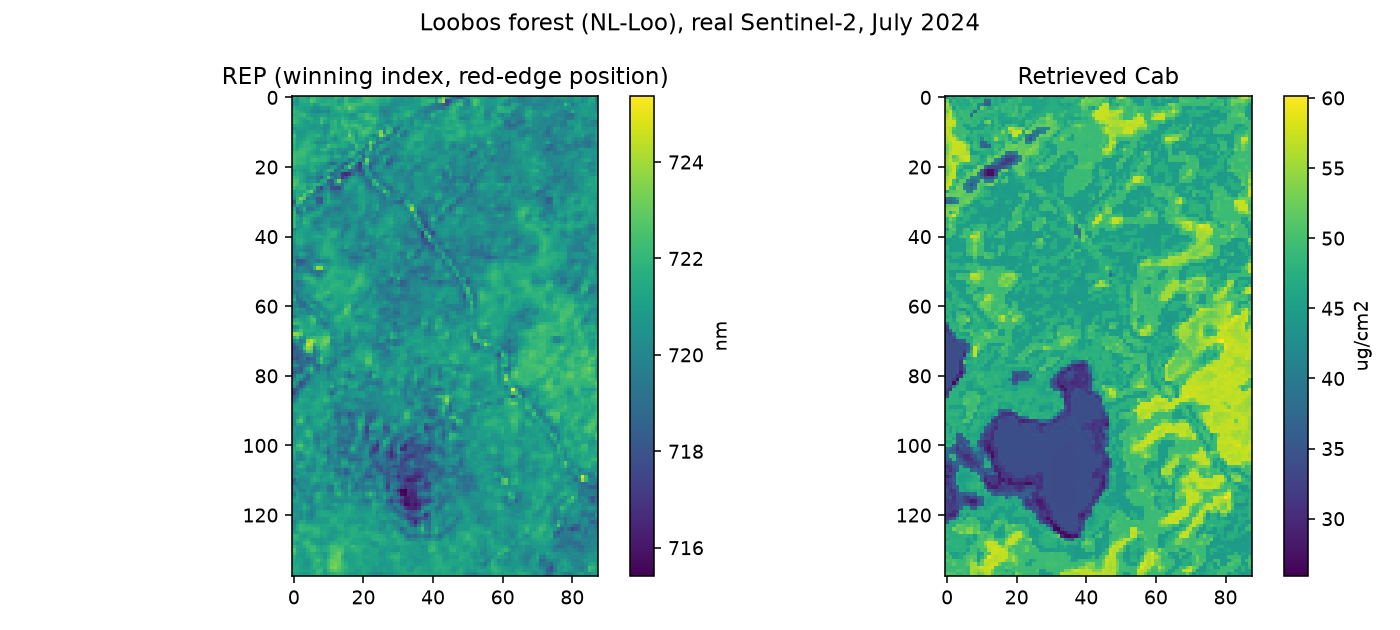
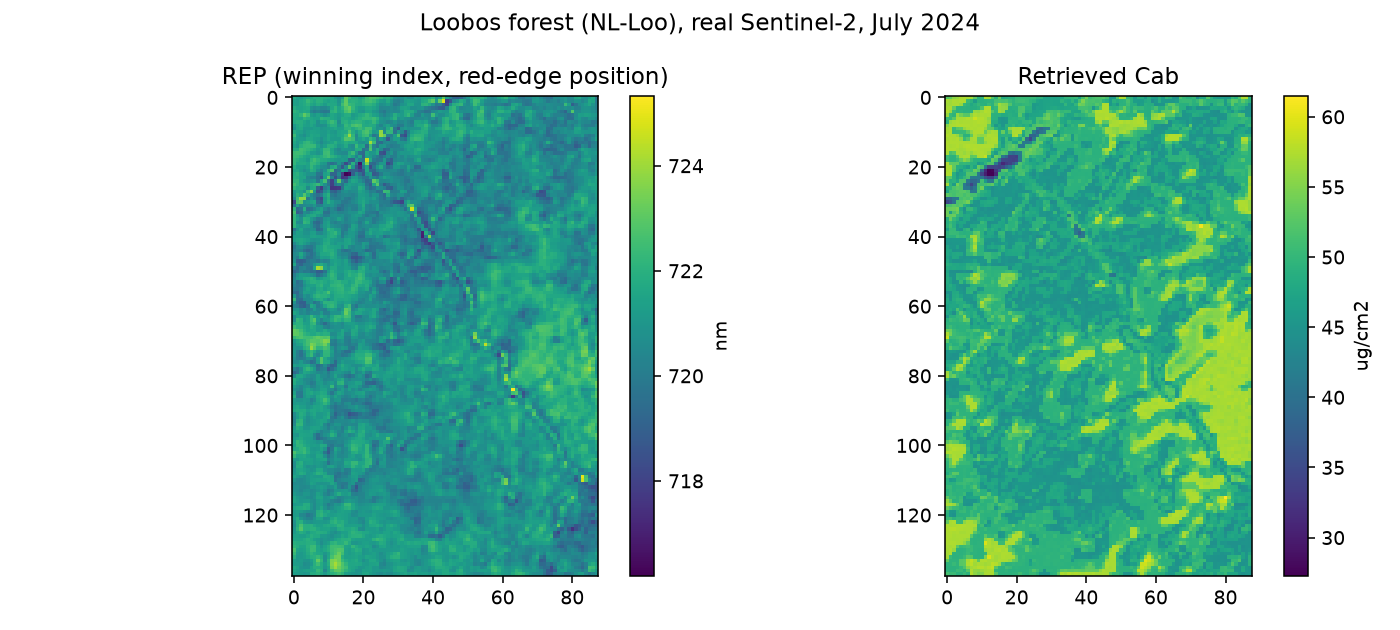
Fix t18 tutorial: cloud-contaminated pixel was not a real forest gap
The Result/Interpretation prose claimed a dark patch shared by the REP
index and the ML-retrieved Cab map was "the exact same forest gap" and
"evidence of a genuine vegetation signal". Real bug: the July composite
only had 3 usable dates, and the 2024-07-28 scene has a real cloud
sitting directly over that exact spot -- despite having the LOWEST
whole-scene cloud cover of the three (14% vs 20.5%/28%), since a
tile-wide percentage says nothing about a small bbox. The RF Cab model,
trained only on clean simulated spectra, turned the contaminated
composite pixel into a confident-looking but meaningless low value --
precisely the "Common mistakes" pitfall this same page already warns
about, just not caught in its own headline figure.

Figure/generator script already fixed and regenerated (excludes the
cloudy scene explicitly, kept as the two genuinely clean dates).
Rewrote Interpretation honestly: recounts the real bug as the more
useful lesson a clean figure wouldn't have taught, and describes what's
left in the corrected figure with appropriate hedging (a small
low-REP/low-Cab patch near a visible unpaved track junction, consistent
across both clean dates and plausibly real, but not something a figure
like this can fully distinguish from residual haze) instead of
overclaiming certainty the data doesn't support.

diff --git a/docs/python/t18-applying-inversion-spatially.html b/docs/python/t18-applying-inversion-spatially.html
@@ -193,22 +193,43 @@ handling invalid pixels correctly.</p>
 <a class="reference internal image-reference" href="_images/t18_python_capstone.png"><img alt="Retrieved Cab map alongside an independent spectral index (REP), same real Loobos Sentinel-2 scene" src="_images/t18_python_capstone.png" style="width: 100%;" />
 </a>
 <figcaption>
-<p><span class="caption-text">Real output: a Random Forest Cab model – trained on a 500-row LUT with a deliberately wide domain (sparse-to-dense LAI, variable soil brightness, realistic geometry) – applied to every pixel of a real Sentinel-2 scene over Loobos forest, NL. The retrieved Cab map (right) and an independently-computed spectral index (REP, left, no ML involved at all) both show the exact same forest gap, entirely independently.</span><a class="headerlink" href="#id1" title="Link to this image"></a></p>
+<p><span class="caption-text">Real output: a Random Forest Cab model – trained on a 500-row LUT with a deliberately wide domain (sparse-to-dense LAI, variable soil brightness, realistic geometry) – applied to every pixel of a real Sentinel-2 scene over Loobos forest, NL. The retrieved Cab map (right) and an independently-computed spectral index (REP, left, no ML involved at all) both show the same sandy track crossing the site, and a small, subtle low-REP/low-Cab patch near the track junction (top-left).</span><a class="headerlink" href="#id1" title="Link to this image"></a></p>
 </figcaption>
 </figure>
 </section>
 <section id="interpretation">
 <h2>Interpretation<a class="headerlink" href="#interpretation" title="Link to this heading"></a></h2>
-<p>The two panels agreeing spatially – the same dark gap visible in both
-the ML-retrieved Cab map and the independently-computed REP index – is
-a real, meaningful consistency check: REP was never used to train the
-Cab model, so this agreement isn’t circular. It’s evidence the retrieval
-is picking up a genuine vegetation signal (a real canopy gap) rather
-than an artifact of the model or the scene. This kind of independent
-cross-check matters more once you’re on real data than it did in
-Chapters 12-15, where held-out R2 alone was a sufficient (and
-achievable) standard – real scenes don’t come with ground-truth Cab to
-check against directly.</p>
+<p><strong>This exact figure caught a real cloud-contamination bug while this
+page was being written – worth recounting, because it’s a more useful
+lesson than a clean figure would have been.</strong> The July composite this
+site’s imagery draws from only had 3 usable dates; an earlier version
+of this figure averaged in a date with a real cloud sitting directly
+over part of the scene. That date’s whole-scene cloud cover (14%) was
+actually the <em>lowest</em> of the three – a tile-wide percentage says
+nothing about whether <em>this specific small area</em> was covered, and it
+wasn’t obvious from the trait map alone. The cloud-contaminated pixel
+produced a confident-looking, smoothly-shaped dark patch that both
+panels “agreed” on, which is exactly the kind of independent-agreement
+argument this section originally (wrongly) made in its own defense.
+Comparing each date’s true-colour crop individually caught it. The
+figure above uses only the two genuinely clean dates.</p>
+<p>What’s left after that fix is much more modest: a small low-REP/low-Cab
+patch coincides with the visible unpaved track junction in the top-left
+corner, consistent across both remaining dates – plausibly real (less
+canopy cover right at a track crossing is physically reasonable, and
+<a class="reference internal" href="t17-preparing-eo-observations.html"><span class="doc">17. Preparing EO Observations</span></a> already documents that this
+scene’s bright, unpaved forest tracks are a known false-positive for a
+simple brightness-based cloud check, i.e. they really are locally
+brighter/different than the surrounding canopy). It is <strong>not</strong> possible
+to fully rule out thin residual cloud or haze from a figure like this
+alone, and this page won’t claim more certainty than that. The broader
+point – that REP (a plain band-ratio index, no ML) and the ML-retrieved
+Cab map agree spatially at all, and that this agreement isn’t circular
+since REP was never used to train the Cab model – is still a real,
+useful cross-check once you’re on real data, where (unlike Chapters
+12-15’s held-out R2) there’s no ground-truth Cab to check against
+directly. It just isn’t, on its own, proof of what a matching patch
+<em>is</em>.</p>
 </section>
 <section id="try-it-yourself">
 <h2>Try it yourself<a class="headerlink" href="#try-it-yourself" title="Link to this heading"></a></h2>

diff --git a/python/docs/t18-applying-inversion-spatially.rst b/python/docs/t18-applying-inversion-spatially.rst
@@ -63,21 +63,43 @@ Result
    :alt: Retrieved Cab map alongside an independent spectral index (REP), same real Loobos Sentinel-2 scene
    :width: 100%
 
-   Real output: a Random Forest Cab model -- trained on a 500-row LUT with a deliberately wide domain (sparse-to-dense LAI, variable soil brightness, realistic geometry) -- applied to every pixel of a real Sentinel-2 scene over Loobos forest, NL. The retrieved Cab map (right) and an independently-computed spectral index (REP, left, no ML involved at all) both show the exact same forest gap, entirely independently.
+   Real output: a Random Forest Cab model -- trained on a 500-row LUT with a deliberately wide domain (sparse-to-dense LAI, variable soil brightness, realistic geometry) -- applied to every pixel of a real Sentinel-2 scene over Loobos forest, NL. The retrieved Cab map (right) and an independently-computed spectral index (REP, left, no ML involved at all) both show the same sandy track crossing the site, and a small, subtle low-REP/low-Cab patch near the track junction (top-left).
 
 Interpretation
 -------------------
 
-The two panels agreeing spatially -- the same dark gap visible in both
-the ML-retrieved Cab map and the independently-computed REP index -- is
-a real, meaningful consistency check: REP was never used to train the
-Cab model, so this agreement isn't circular. It's evidence the retrieval
-is picking up a genuine vegetation signal (a real canopy gap) rather
-than an artifact of the model or the scene. This kind of independent
-cross-check matters more once you're on real data than it did in
-Chapters 12-15, where held-out R2 alone was a sufficient (and
-achievable) standard -- real scenes don't come with ground-truth Cab to
-check against directly.
+**This exact figure caught a real cloud-contamination bug while this
+page was being written -- worth recounting, because it's a more useful
+lesson than a clean figure would have been.** The July composite this
+site's imagery draws from only had 3 usable dates; an earlier version
+of this figure averaged in a date with a real cloud sitting directly
+over part of the scene. That date's whole-scene cloud cover (14%) was
+actually the *lowest* of the three -- a tile-wide percentage says
+nothing about whether *this specific small area* was covered, and it
+wasn't obvious from the trait map alone. The cloud-contaminated pixel
+produced a confident-looking, smoothly-shaped dark patch that both
+panels "agreed" on, which is exactly the kind of independent-agreement
+argument this section originally (wrongly) made in its own defense.
+Comparing each date's true-colour crop individually caught it. The
+figure above uses only the two genuinely clean dates.
+
+What's left after that fix is much more modest: a small low-REP/low-Cab
+patch coincides with the visible unpaved track junction in the top-left
+corner, consistent across both remaining dates -- plausibly real (less
+canopy cover right at a track crossing is physically reasonable, and
+:doc:`t17-preparing-eo-observations` already documents that this
+scene's bright, unpaved forest tracks are a known false-positive for a
+simple brightness-based cloud check, i.e. they really are locally
+brighter/different than the surrounding canopy). It is **not** possible
+to fully rule out thin residual cloud or haze from a figure like this
+alone, and this page won't claim more certainty than that. The broader
+point -- that REP (a plain band-ratio index, no ML) and the ML-retrieved
+Cab map agree spatially at all, and that this agreement isn't circular
+since REP was never used to train the Cab model -- is still a real,
+useful cross-check once you're on real data, where (unlike Chapters
+12-15's held-out R2) there's no ground-truth Cab to check against
+directly. It just isn't, on its own, proof of what a matching patch
+*is*.
 
 Try it yourself
 --------------------
